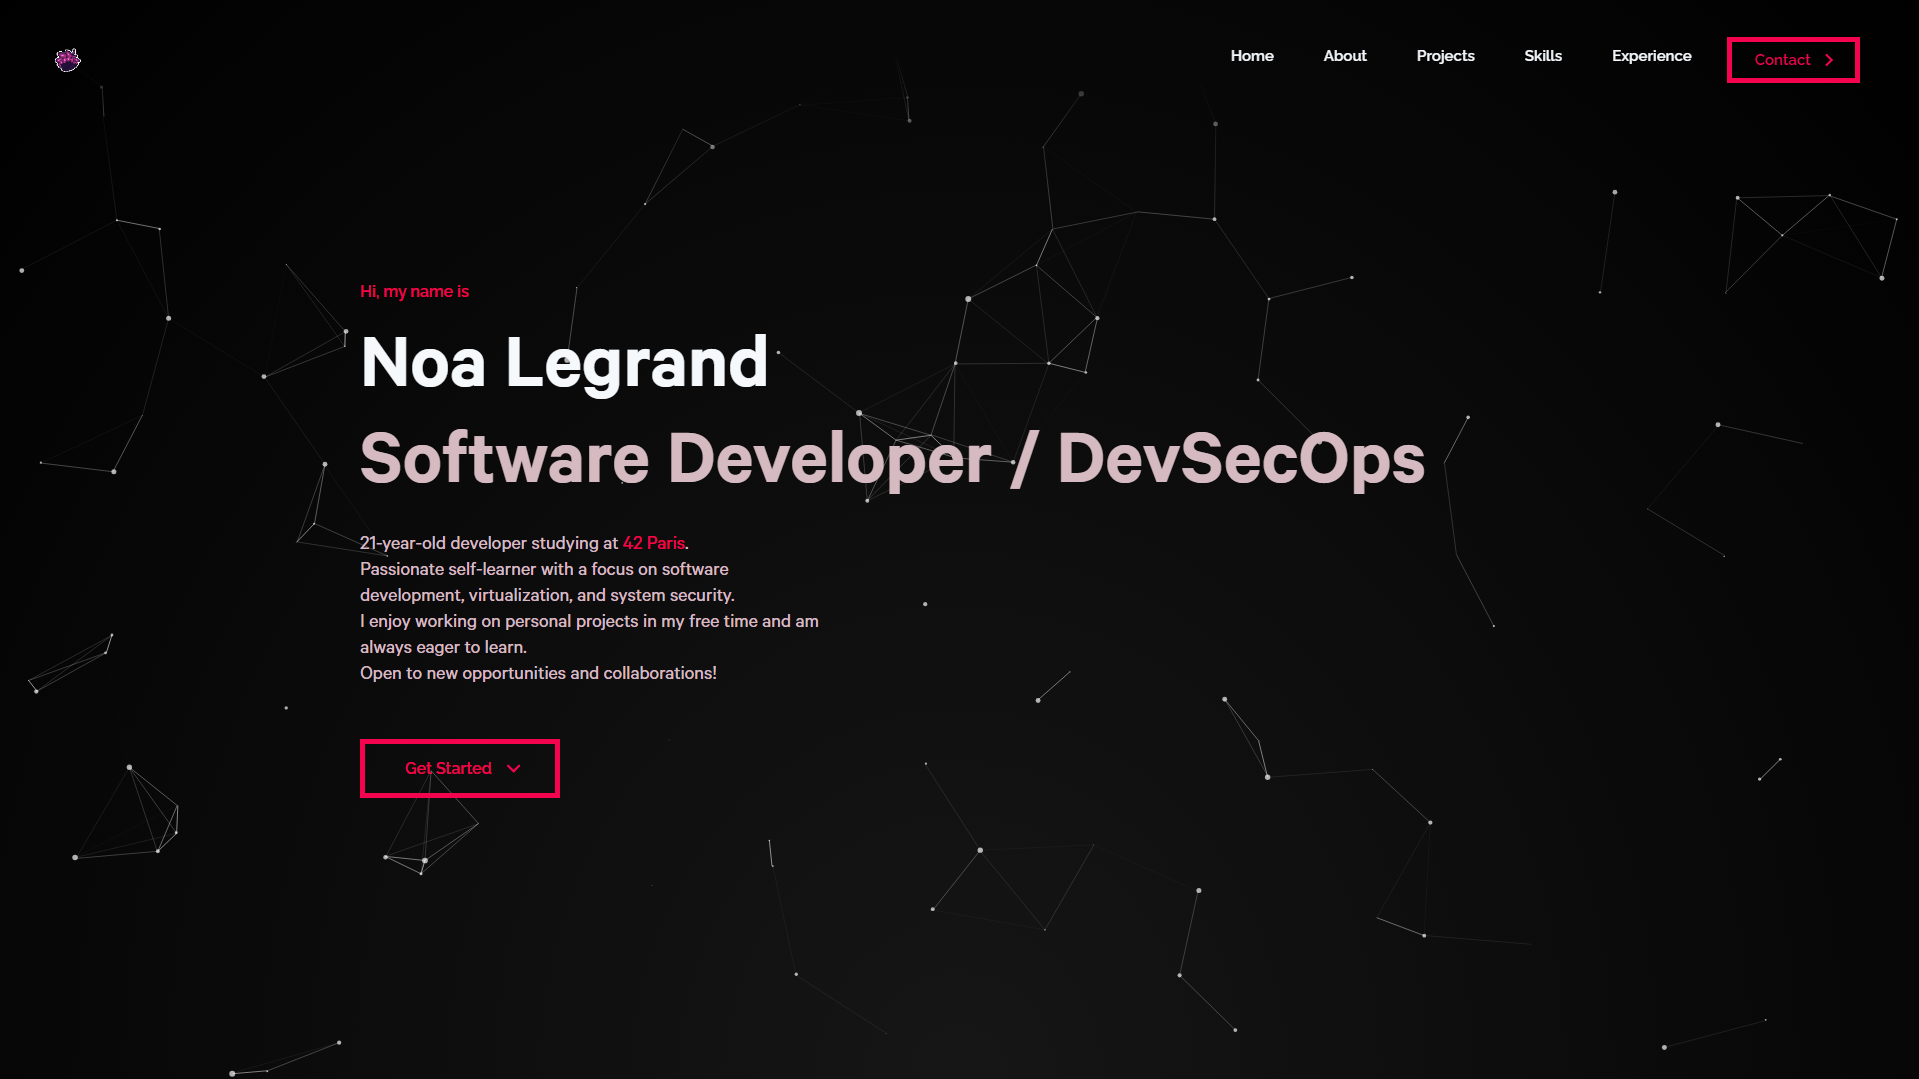
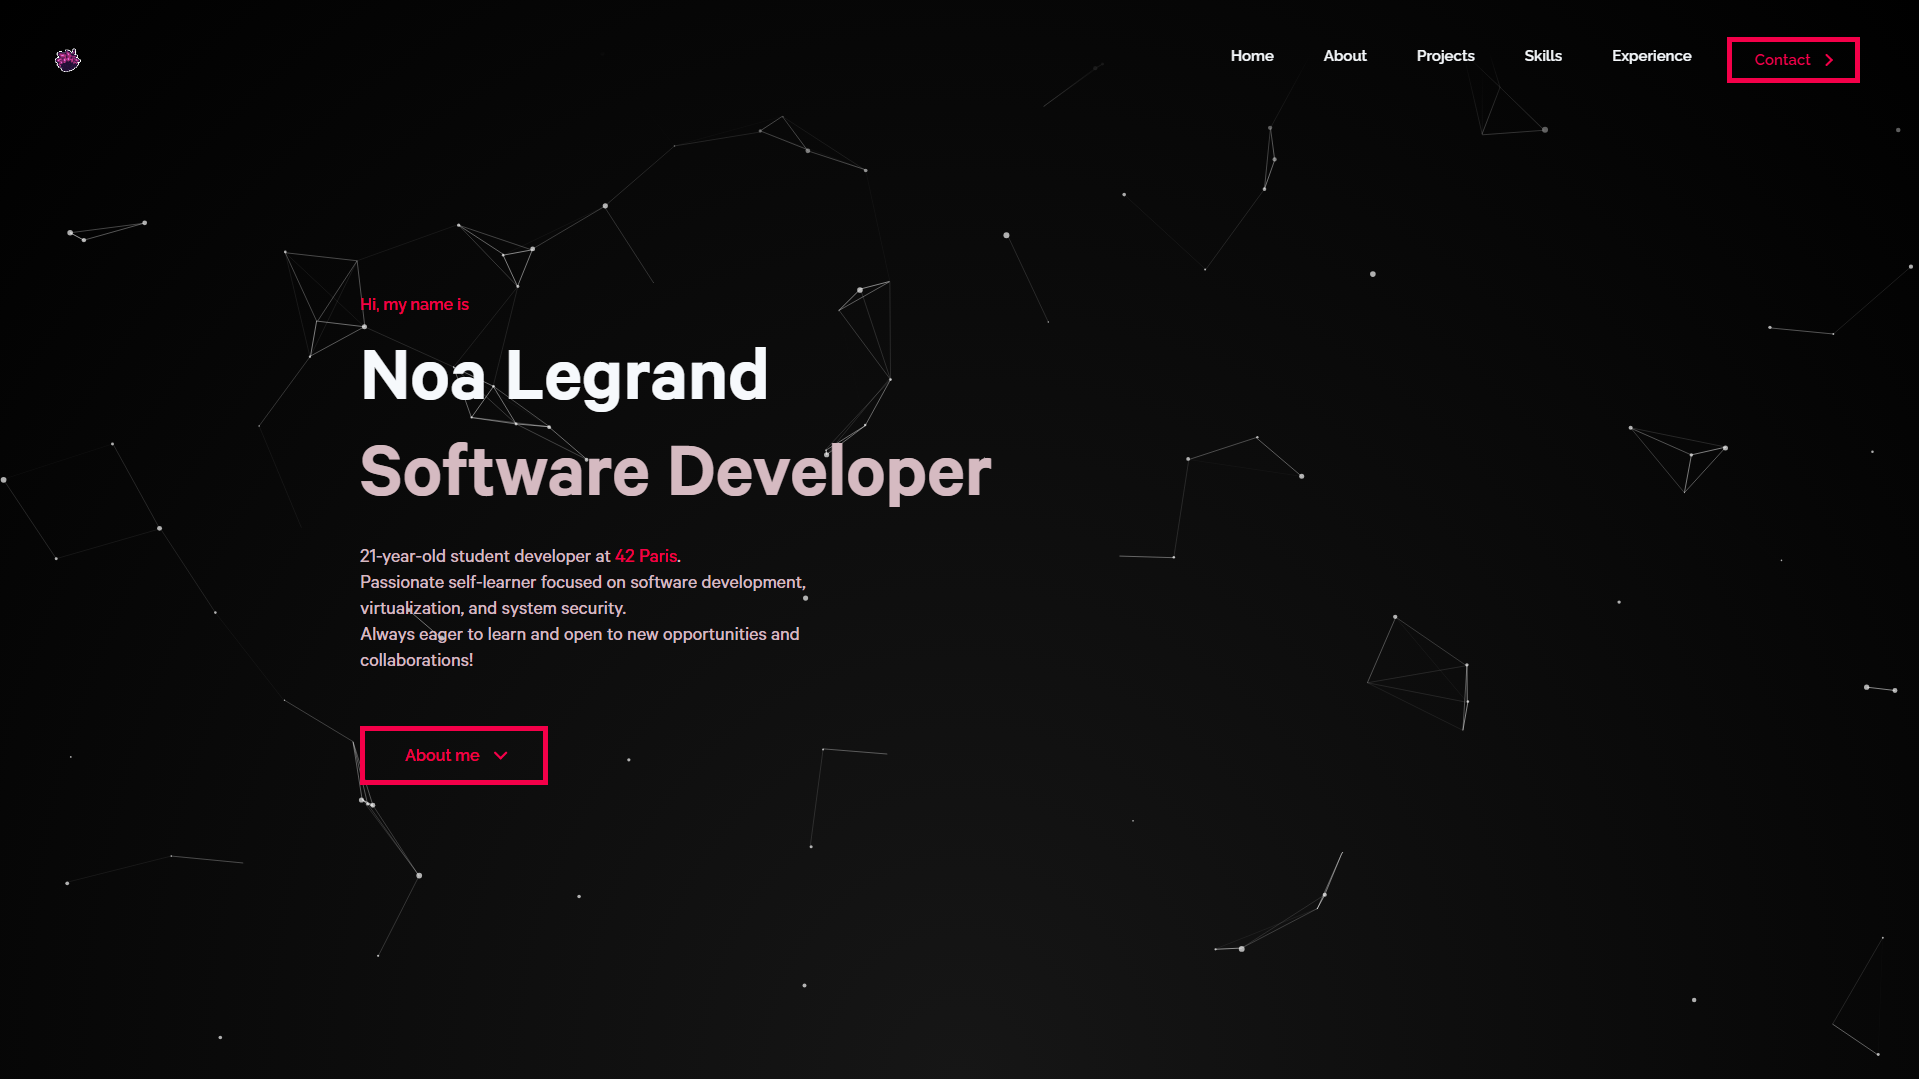
changed footer text, updated embed images

diff --git a/index.html b/index.html
@@ -72,7 +72,7 @@
 							<li class="contact in_animation">
 								<a class="button" href="#contact">
 									<p>Contact</p>
-									<svg class="button_arrow" xmlns="https://www.w3.org/2000/svg" viewBox="0 0 17.69 17.39"><g>
+									<svg class="button_arrow" xmlns="http://www.w3.org/2000/svg" viewBox="0 0 17.69 17.39"><g>
 										<path class="path_1" d="M8.9 12.4 L8.9 12.4"/>
 										<path class="path_2" d="M16.2 5 8.9 12.4 1.5 5"/></g>
 									</svg>
@@ -80,7 +80,7 @@
 							</li>
 						</ol>
 					</div>
-					<svg class="menu_icon" viewBox="0 0 140 100" xmlns="https://www.w3.org/2000/svg">
+					<svg class="menu_icon" viewBox="0 0 140 100" xmlns="http://www.w3.org/2000/svg">
 						<line x1="10" y1="10" x2="130" y2="10"/>
 						<line x1="30" y1="50" x2="130" y2="50"/>
 						<line x1="50" y1="90" x2="130" y2="90"/>
@@ -90,7 +90,7 @@
 		</div>
 
 		<div id="menu_div">
-			<svg class="menu_icon" viewBox="0 0 100 100" xmlns="https://www.w3.org/2000/svg">
+			<svg class="menu_icon" viewBox="0 0 100 100" xmlns="http://www.w3.org/2000/svg">
 				<line x1="10" y1="10" x2="90" y2="90"/>
 				<line x1="10" y1="90" x2="90" y2="10"/>
 			</svg>
@@ -104,7 +104,7 @@
 					<li class="contact">
 						<a class="button" href="#contact">
 							<p>Contact</p>
-							<svg class="button_arrow" xmlns="https://www.w3.org/2000/svg" viewBox="0 0 17.69 17.39"><g>
+							<svg class="button_arrow" xmlns="http://www.w3.org/2000/svg" viewBox="0 0 17.69 17.39"><g>
 								<path class="path_1" d="M8.9 12.4 L8.9 12.4"/>
 								<path class="path_2" d="M16.2 5 8.9 12.4 1.5 5"/></g>
 							</svg>
@@ -131,7 +131,7 @@
 						<div class="home_button in_animation">
 							<a class="button" href="#about">
 								<p>About me</p>
-								<svg class="button_arrow" xmlns="https://www.w3.org/2000/svg" viewBox="0 0 17.69 17.39"><g>
+								<svg class="button_arrow" xmlns="http://www.w3.org/2000/svg" viewBox="0 0 17.69 17.39"><g>
 									<path class="path_1" d="M8.9 12.4 L8.9 12.4"/>
 									<path class="path_2" d="M16.2 5 8.9 12.4 1.5 5"/>
 								</g></svg>
@@ -259,12 +259,12 @@
 							</a>
 							<a class="" href="https://github.com/noapoleon/portfolio" target="_blank">
 								<span>See the repository on GitHub</span>
-								<svg xmlns="https://www.w3.org/2000/svg" viewBox="0 0 19.05 20.31"><g><path d="M7.26 16.34c-4.11 1.23-4.11-2.06-5.76-2.47M13 18.81V15.62a2.78 2.78 0 0 0-.77-2.15c2.59-.28 5.3-1.26 5.3-5.76a4.46 4.46 0 0 0-1.23-3.08 4.18 4.18 0 0 0-.08-3.11s-1-.29-3.22 1.22a11 11 0 0 0-5.76 0C5 1.23 4 1.52 4 1.52A4.18 4.18 0 0 0 4 4.63 4.48 4.48 0 0 0 2.73 7.74c0 4.46 2.72 5.44 5.31 5.76a2.8 2.8 0 0 0-.78 2.12v3.19"/></g></svg>
+								<svg xmlns="http://www.w3.org/2000/svg" viewBox="0 0 19.05 20.31"><g><path d="M7.26 16.34c-4.11 1.23-4.11-2.06-5.76-2.47M13 18.81V15.62a2.78 2.78 0 0 0-.77-2.15c2.59-.28 5.3-1.26 5.3-5.76a4.46 4.46 0 0 0-1.23-3.08 4.18 4.18 0 0 0-.08-3.11s-1-.29-3.22 1.22a11 11 0 0 0-5.76 0C5 1.23 4 1.52 4 1.52A4.18 4.18 0 0 0 4 4.63 4.48 4.48 0 0 0 2.73 7.74c0 4.46 2.72 5.44 5.31 5.76a2.8 2.8 0 0 0-.78 2.12v3.19"/></g></svg>
 							</a>
 						</div>
 						<div class="footer_content">
 							<p>
-								v1.1<br/>
+								v1.1<br/><br/>
 								Built by using only vanilla HTML, CSS and JavaScript.<br/>
 								Thank you for reading to the end, I hope you enjoyed this website.<br/><br/>
 								v2.0 in progress...

diff --git a/css/style.css b/css/style.css
@@ -10,6 +10,7 @@ html
 {
 	scroll-behavior: smooth;
 	overflow-x: hidden;
+	overflow-y: hidden;
 	background-color: black;
 }
 
